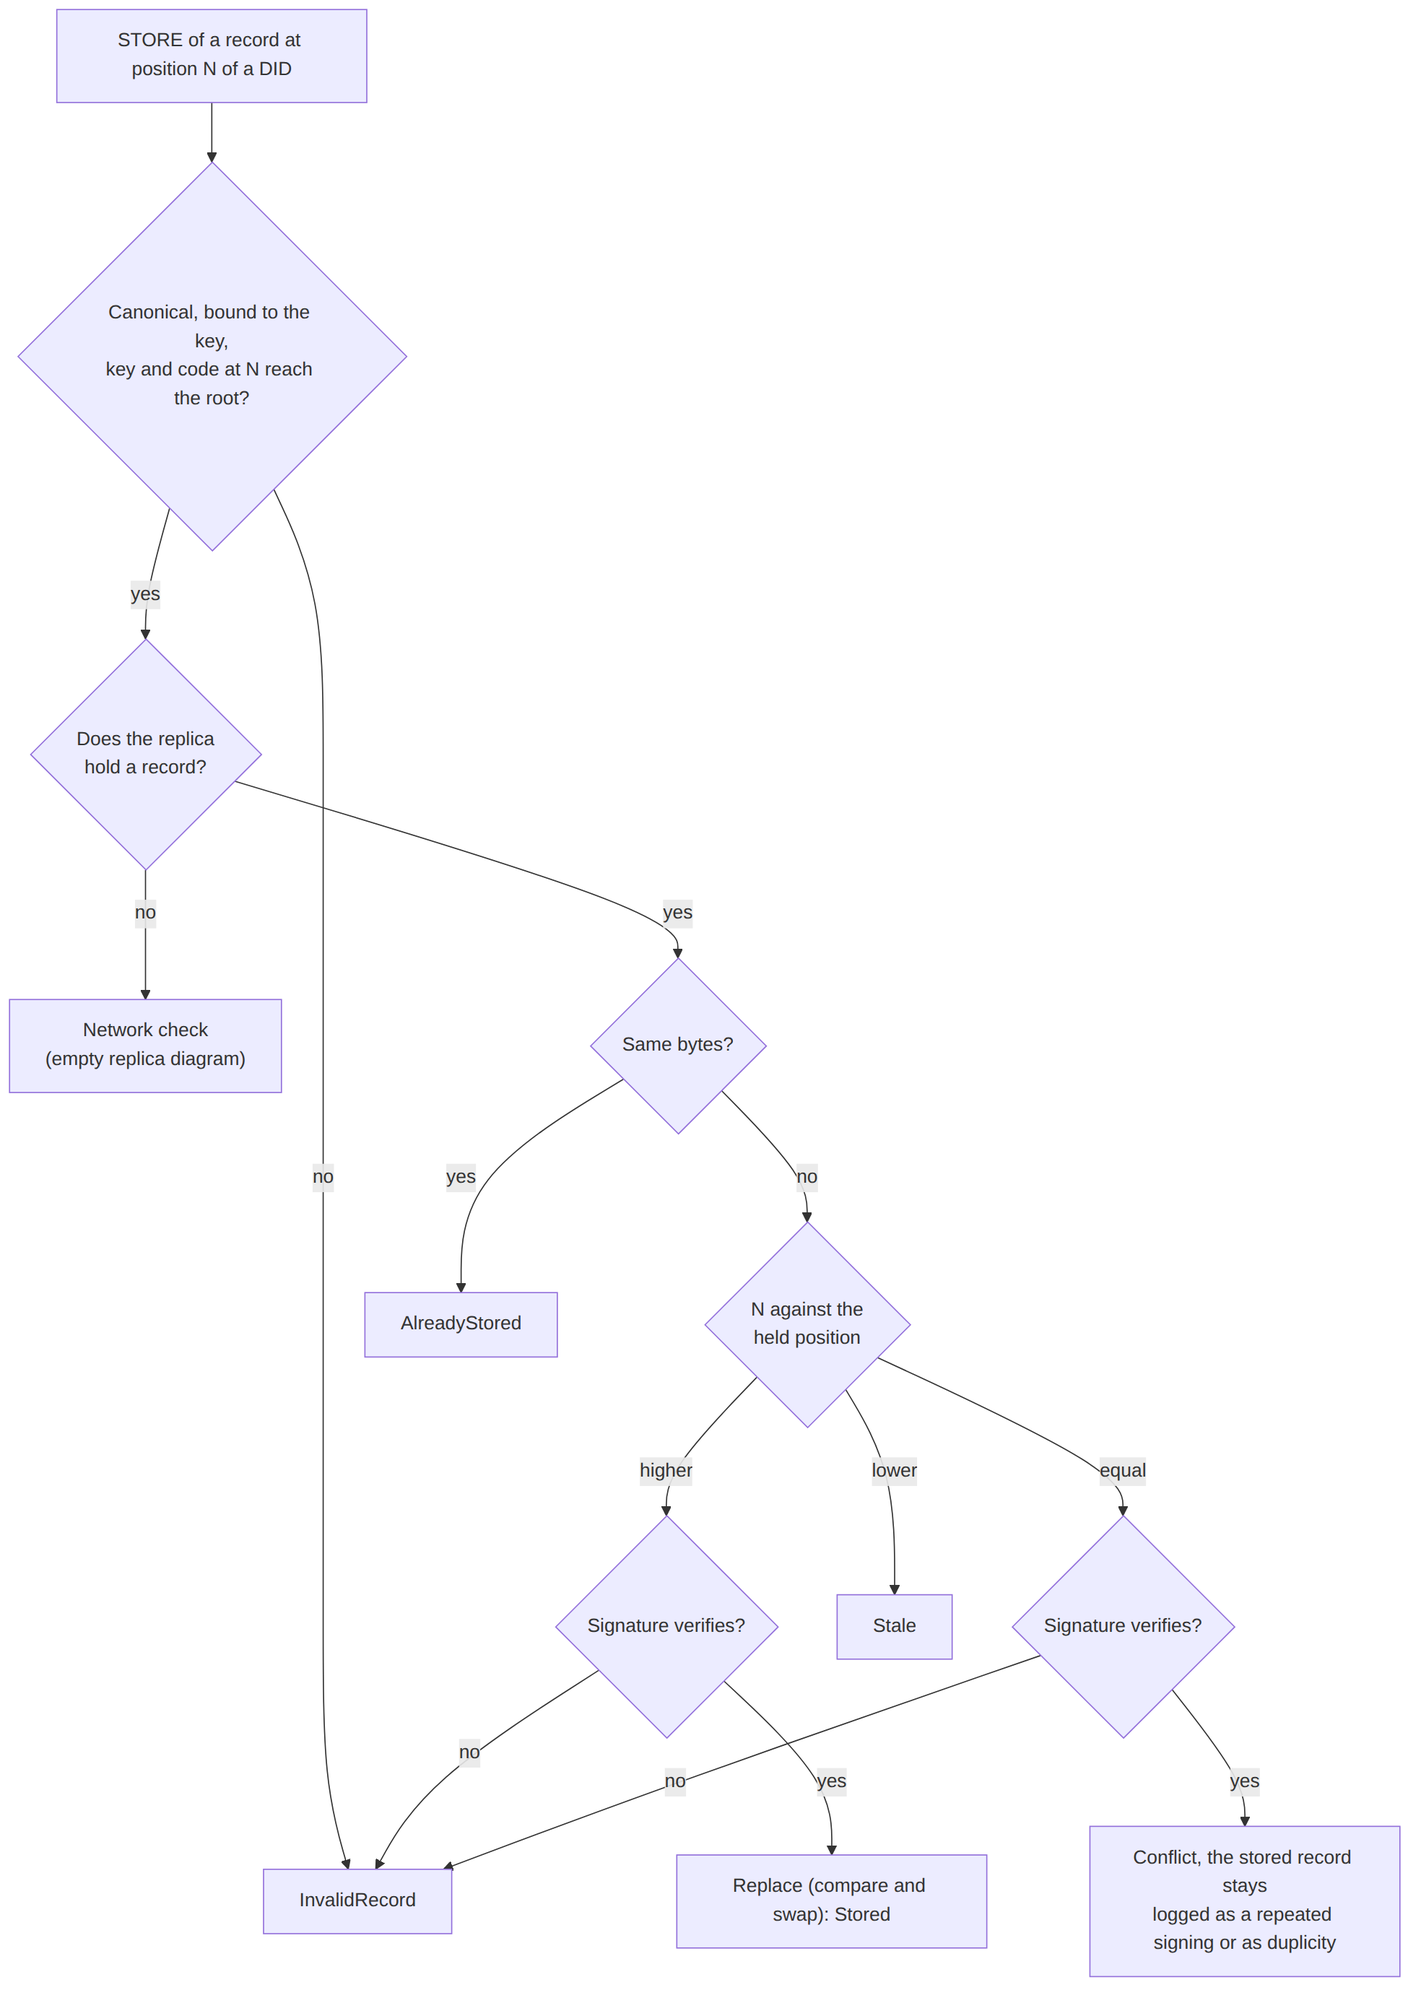
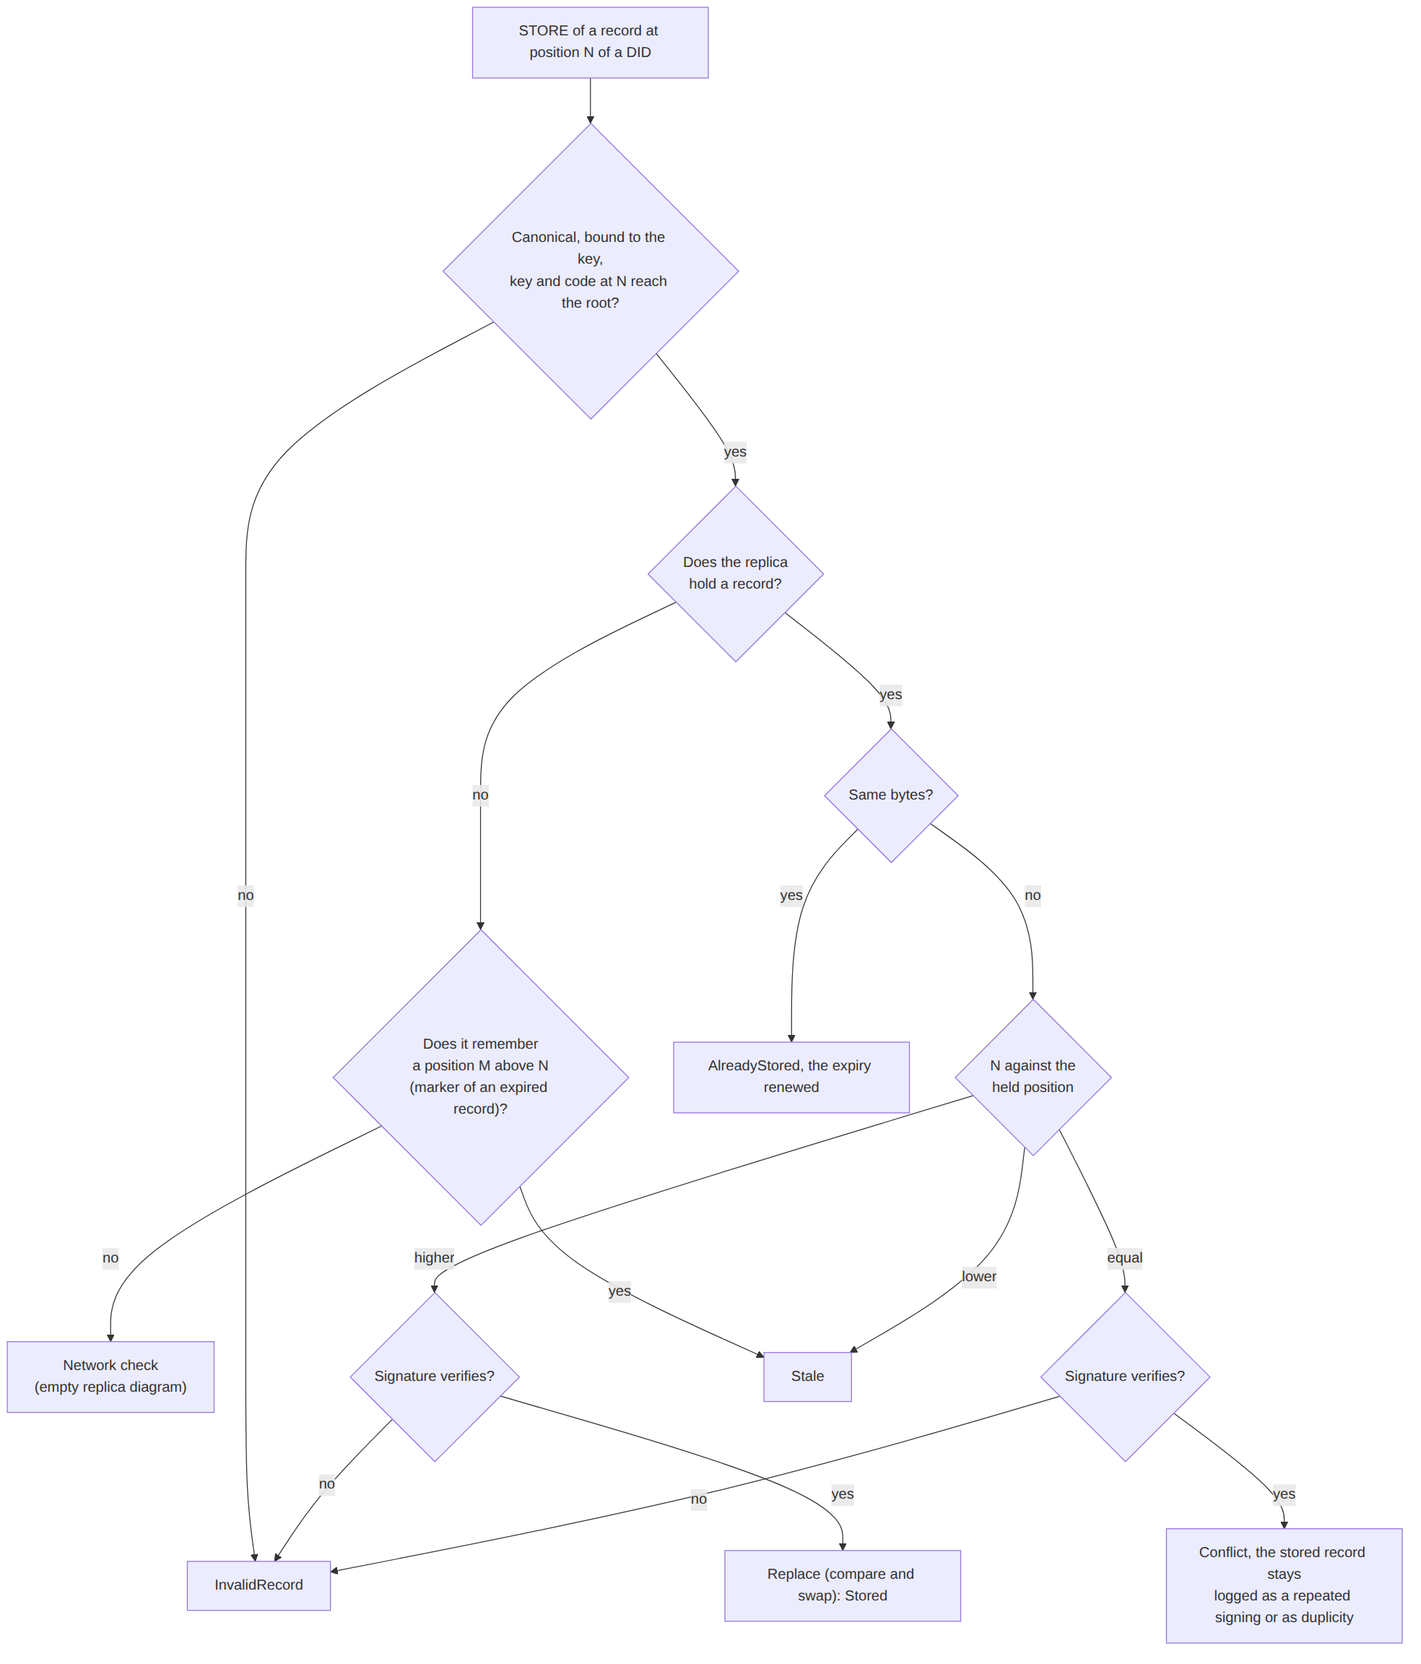
docs: describe persistent storage and the remembered position

diff --git a/AGENTS.md b/AGENTS.md
@@ -21,9 +21,9 @@ Application-layer logic (provisioning, REST APIs, orchestration) remains in Pyth
 ```
 cargo build                          # library + dht_node binary
 cargo build --bin dht_node           # only the Docker entry point
-cargo test                           # all 314 tests
-cargo test --features counters       # 317: also the counters' own tests
-cargo test --features testbed        # 318: also the testbed's FindHash lie switch
+cargo test                           # all 331 tests
+cargo test --features counters       # 334: also the counters' own tests
+cargo test --features testbed        # 335: also the testbed's FindHash lie switch
 cargo test <name>                    # single test, e.g. test_key_rotation_is_published_with_set
 RUST_LOG=debug cargo test -- --nocapture   # verbose output
 ```
@@ -81,6 +81,11 @@ maturin develop --features python
 - `Server(sig_cache=True/False)` controls the ML-DSA signature cache (default
   `False`). Pass `sig_cache=True` to enable it in production for repeated-record
   workloads.
+- `Server(data_dir=None, flush_secs=3600)`: with `data_dir` the node keeps
+  the records it holds in that directory and serves them again after a
+  restart (`ForgetfulStorage::persistent`); renewed expiries reach the disk
+  every `flush_secs`. `RuntimeError` if the directory cannot be created or
+  read. Without it, records live in memory only.
 
 ## Tokio runtime — caller responsibility
 
@@ -128,7 +133,8 @@ default cap of 512 blocking threads, which thrashes the CPU on low-core SoCs.
 | `src/network/maintenance.rs` | Refresh and the hourly republication (through `KademliaProtocol::republish`), recovery tick, stats (`ServerStats`), saved state |
 | `src/crawling.rs` | Iterative lookup — `NodeSpiderCrawl` (find nodes) + `ValueSpiderCrawl` (find value; `search` with a deadline tells `NotFound` from `Incomplete`) |
 | `src/routing.rs` | Kademlia routing table + k-buckets (XOR distance, bucket splits); `KBucket` holds a primary LRU list + `replacement_nodes` overflow (§4.1); `find_neighbors` returns the exact local top-k across known primary contacts, skipping failing ones (see Concurrency model); `touch_last_updated()` is called only for the bucket containing the lookup target — bucket staleness reflects lookup activity, not node additions |
-| `src/storage.rs` | `ForgetfulStorage` — sharded concurrent TTL KV store (`DashMap`); 14-day TTL and configurable byte budget (default 512 MiB), with lazy expiry on read; `insert_if_absent` and `replace_if` (compare and swap under the entry) |
+| `src/storage.rs` | `ForgetfulStorage` — sharded concurrent TTL KV store (`DashMap`); 14-day TTL and configurable byte budget (default 512 MiB), with lazy expiry on read; times in Unix milliseconds; `insert_if_absent` and `replace_if` (compare and swap under the entry); optionally persistent (`persistent`, `flush_renewals`); the marker of an expired DID record (`marker`, `record_or_marker`) |
+| `src/durable.rs` | The files of a persistent store, one per key: a record and its expiry, or a marker; atomic replacement (temporary file, fsync, rename, fsync of the directory) and loading |
 | `src/signature_cache.rs` | `SignatureCache` — moka bounded cache (SHA-256 key, TTL 1 h, 4096 entries) for ML-DSA-65 verification results |
 | `src/fragmentation.rs` | KADF fragmentation + reassembly (`encode_fragments`, `parse_fragment`, `accept_fragment`, `ReassemblyMap`) |
 | `src/retransmit.rs` | When to send a request again: per-peer round-trip estimate (`RoundTrips`, RFC 6298), `MAX_RESENDS`, bounds of the wait |
@@ -221,6 +227,7 @@ All RPCs are serialised with `bincode` and framed with a `(msg_id: u32, is_reque
 
 ## Concurrency model
 - `ForgetfulStorage` is `Arc<ForgetfulStorage>` (no outer `RwLock`). All `IStorage` methods take `&self`; internal synchronization via `DashMap` shards.
+- A persistent store writes a new or changed record to its file, flushed to the device, before memory and before the write returns, under the lock of the entry: a STORE waits for the disk, and memory and disk never disagree between two concurrent writes. Writes are rare (a first copy, a rotation); a renewal of the same bytes changes memory only, and `flush_renewals` and `prune_expired` run on the blocking pool (`schedule_flush`, the stats tick). `Server::stop` flushes the renewals.
 - `rpc_store` uses `insert_if_absent` (DashMap `Entry` API) with atomic global byte reservation. Identical bytes are idempotent; active records are never evicted for capacity. A verified higher position replaces the stored record with `replace_if`, a compare and swap under the entry: if the record changed since the rules read it, the handler decides once more, and after a second change it sends no answer.
 - A STORE for a key the node does not hold waits for a lookup (see Key invariants), whose answers arrive through the receive workers. `handle_datagram` therefore runs it in its own task (`spawn_task`) instead of on the worker, and answers when it is done; at most `MAX_STORE_LOOKUPS` (256) wait at once, beyond that the STORE is dropped. Handled on the worker, 8 such STOREs at once left the lookups without their answers.
 - **Message ids** (ADR 0005, open point 25): each request draws its msg_id at random (`rand`), never one a pending request holds (`fresh_id`, under the lock of the pending map); an answer counts only if its id is pending for the address it comes from. An attacker who does not read the traffic cannot guess one; one who reads it still sees every id.
@@ -309,6 +316,21 @@ All RPCs are serialised with `bincode` and framed with a `(msg_id: u32, is_reque
   the testbed's `push` both run it.
 - The Status List GET keeps a quorum derived from `alpha`, not independently
   configurable: with `alpha = 3`, two byte-identical record responses, or `None`.
+- **Persistence** (ADR 0006, points 5 and 6): with a data directory a
+  replica's records survive a power cut. A write that cannot be made durable
+  changes nothing (`WriteFailed`), and the STORE gets no answer, so the
+  sender counts the replica as unavailable. Renewals of the same bytes reach
+  the disk with the next flush (`DEFAULT_FLUSH_INTERVAL`, one hour): a power
+  cut loses at most one interval of TTL, never a record. Expiries are wall
+  clock times, so a record keeps the rest of its TTL across a restart; never
+  restart a TTL from boot time.
+- **Marker**: once a DID record expires, its position is remembered for one
+  more TTL from its expiry, in memory and in its file, charged to the
+  budget. While it lives, a lower position is `Stale` without asking anyone
+  (`Held::Marker` in `decide_locally`), a GET returns nothing below it, and
+  a repair below it finds nothing; that position or a higher one goes
+  through the network check, and a record written over the marker replaces
+  it. Only a stored, verified record sets it; nothing extends it.
 - An empty replica checks the network before a STORE (`rpc_store`,
   `network_check`), for every DID record (`store_needs_lookup`): the Status List
   is exempt. It asks the nodes closest to the key for the `seq` and SHA-256 of
@@ -382,6 +404,7 @@ All RPCs are serialised with `bincode` and framed with a `(msg_id: u32, is_reque
 | `tests/crypto_tests.rs` | 19 | Crypto layer unit + DID handler unit tests |
 | `tests/routing_tests.rs` | 22 | Routing table unit tests |
 | `tests/storage_tests.rs` | 20 | `ForgetfulStorage` unit tests (includes `insert_if_absent` and `replace_if` cases) |
+| `tests/persistence_tests.rs` | 2 | A persistent replica over real UDP: its record served after a power cut with no peer; no answer when its disk refuses a write |
 | `tests/dht_integration.rs` | 1 | Legacy 3-node end-to-end scenario |
 | `tests/scenarios/replication.rs` | 1 | replication to a joining node (3-node join) |
 | `tests/scenarios/cache.rs` | 2 | SignatureCache hit-rate + false caching |
@@ -391,7 +414,7 @@ All RPCs are serialised with `bincode` and framed with a `(msg_id: u32, is_reque
 | `tests/quorum_tests.rs` | 16 | Real-UDP DID GET without a vote, multi-hop lookup, local fast-path, Status List quorum and update, retry of a publication, a rotation that fills empty replicas, and the network check of a STORE to an empty replica |
 | `tests/repair_tests.rs` | 3 | Repair over real UDP: the expected record found, stored and served locally; no match without it; no answer |
 | `tests/chain_tests.rs` | 8 | Positions of one DID over real UDP: a rotation that reaches every replica, the owner restoring empty replicas, refusals of `set` that count only once shown, forged and old genuine records at empty replicas |
-| `src/**` (inline) | 199 | Module-level `#[test]` blocks (incl. Kademlia convergence, strict-quorum selection, XOR-metric regression, the 256-bit key space, fragmentation, the DID suffix and canonical JSON, the Merkle tree and genesis with a Python test vector, the owner's tree, the STORE rules, the holder's repair after `Stale`, the write of a repair, random message ids, and the protocol tests of `acceptance_tests.rs`); with `--features counters` 3 more, with `--features testbed` 1 more (the `FindHash` lie switch) |
+| `src/**` (inline) | 214 | Module-level `#[test]` blocks (incl. persistence and markers in `storage.rs` and `durable.rs`, Kademlia convergence, strict-quorum selection, XOR-metric regression, the 256-bit key space, fragmentation, the DID suffix and canonical JSON, the Merkle tree and genesis with a Python test vector, the owner's tree, the STORE rules, the holder's repair after `Stale`, the write of a repair, random message ids, and the protocol tests of `acceptance_tests.rs`); with `--features counters` 3 more, with `--features testbed` 1 more (the `FindHash` lie switch) |
 
 All tests are network-clean (loopback only) and run in parallel without interference when port ranges are respected.
 
@@ -430,8 +453,10 @@ All tests are network-clean (loopback only) and run in parallel without interfer
 | 15938–15953 | STORE to an empty replica: network check |
 | 15954–15985 | positions of one DID (`tests/chain_tests.rs`) |
 | 16031–16039 | repair of a served record (`tests/repair_tests.rs`) |
+| 16040–16041 | GET below a remembered position (`src/network/read.rs`) |
+| 16042–16045 | persistent replica (`tests/persistence_tests.rs`) |
 
-When adding a new integration test use ports **16040+** and document them here (15900 is reserved below).
+When adding a new integration test use ports **16046+** and document them here (15900 is reserved below).
 
 | 15900 | resilience test: Node A victim (host-exposed UDP, Docker only) |
 
@@ -496,7 +521,8 @@ tmpfs, emptied once no container uses it, so a retriever never reads the DID of
 an earlier run. No key or seed is in `.env` or the compose file (ADR 0005, open
 point 17). Environment variables per container: `NODE_PORT`, `IS_SEED`,
 `BOOTSTRAP_ADDR`, `ROLE` (`publisher`|`retriever`), `RETRIEVE_KEY` (a DID to
-read instead of the file), `RUST_LOG`.
+read instead of the file), `DATA_DIR` (where the node keeps its records across
+restarts; in memory without it), `RUST_LOG`.
 
 Every Dockerfile builds on the Debian release it runs on (`bookworm`): the C
 code of AWS-LC links against the builder's glibc, and a binary built on a newer

diff --git a/DESIGN.md b/DESIGN.md
@@ -339,7 +339,12 @@ decides on its own, with what it holds:
   signing when the document is the same, as duplicity when it differs: only
   the owner, or a thief of that position's key, could have signed it.
 
-![Decision of a replica that receives a record: form and tree, then by what it holds: the network check, AlreadyStored, a verified higher position, Stale or Conflict](docs/design/replica-rules.png)
+A replica whose record expired remembers its position for one more TTL (the
+marker, section 11). A lower position is then `Stale` without asking
+anyone; that position or a higher one goes through the network check below,
+as at a replica that holds nothing.
+
+![Decision of a replica that receives a record: form and tree, then by what it holds or remembers: the network check, AlreadyStored, a verified higher position, Stale or Conflict](docs/design/replica-rules.png)
 
 *Source: [`docs/design/replica-rules.mmd`](docs/design/replica-rules.mmd).*
 
@@ -533,9 +538,25 @@ any list the issuer signed, an older one included.
 
 *Source: [`docs/design/repair.mmd`](docs/design/repair.mmd).*
 
-- **Expiry:** records expire 14 days after they were written. There is no
-  delete. An application that needs a record to stay must publish it again
-  before then.
+- **Expiry:** records expire 14 days after they were written or last
+  renewed. There is no delete. An application that needs a record to stay
+  must publish it again before then. Once a DID record expires, the replica
+  keeps only its key and position, the marker, for 14 more days from that
+  expiry: a replay of a lower position meanwhile is stale even if no node
+  answers its check. Only a stored, verified record sets a marker, and
+  nothing extends it.
+- **Restarts:** a replica given a data directory keeps each record in a file
+  and serves it again after a power cut, with the rest of its TTL, before any
+  other node answers. A new or changed record is on the device before the
+  replica acknowledges it; if the disk refuses the write, nothing changes
+  and the replica does not answer, so the sender counts it as unavailable.
+  A renewal of the same bytes only moves the expiry, so it reaches the disk
+  with the next hourly flush: a power cut loses at most an hour of TTL, which
+  the next renewal gives back. A file is replaced by writing a temporary one,
+  flushing it, renaming it over the old one and flushing the directory, so a
+  power cut leaves the old file or the new one. The marker of an expired
+  record lives in the same file. Without a data directory a replica restarts
+  empty, as before.
 
 ## 12. Concurrency and resource bounds
 
@@ -548,7 +569,12 @@ any list the issuer signed, an older one included.
   at once. Beyond that the STORE is dropped, as an overloaded node drops
   datagrams. Each check fetches at most `k − 1` records.
 - Storage holds at most 512 MiB by default and never evicts a live record to
-  make room: a full node answers `CapacityExceeded`.
+  make room: a full node answers `CapacityExceeded`. A marker costs its key
+  and 16 bytes.
+- With a data directory, a write of a new or changed record waits for the
+  device under the lock of its entry, so that memory and disk never
+  disagree. Such writes are rare, a first copy or a rotation; renewals,
+  expiries and the hourly flush run on the blocking pool.
 - Sending new nodes their records (section 11) scans the whole storage, so one
   scan runs at a time and at most 256 nodes wait for it. The bound is on the
   records, not on the routing table: a node met beyond it is still added. The
@@ -592,6 +618,13 @@ any list the issuer signed, an older one included.
   holder: the DID must be replaced. A lost store ends rotation the same way.
 - **A tree has 63 positions.** Once position 62 is published the DID cannot
   rotate again; moving to a new tree is not defined yet.
+- **Expiries follow the device's clock.** They are wall clock times, so that
+  a record keeps its TTL across a restart: a clock set forward expires
+  records early, one set back keeps them longer.
+- **The data directory is trusted.** Records read from it are verified again
+  before a GET returns them, but a party that can write it can plant a
+  marker that makes the replica refuse a DID's lower positions for its
+  lifetime.
 
 ## 14. How behaviour is measured
 

diff --git a/CHANGELOG.md b/CHANGELOG.md
@@ -46,6 +46,16 @@ application.
 
 ### Added
 
+- Persistent replica storage: `ForgetfulStorage::persistent(dir, ttl,
+  max_storage_bytes)`, `Server(data_dir=..., flush_secs=3600)` in Python and
+  `DATA_DIR` in `dht_node`. A replica keeps each record in a file, written to
+  the device before it acknowledges the record, and serves it again after a
+  restart with the rest of its TTL; renewals are written every hour. A STORE
+  whose record cannot be written gets no answer.
+- The marker of an expired DID record: its position is remembered for one
+  more TTL, also across restarts, so that a replay of a lower position is
+  refused even when no node answers the check, and a GET or a repair returns
+  nothing below it.
 - `Server::repair` and the Python `Server.repair(did, failed_record, seq,
   key_hash)`: when a served record fails the application's check, the node
   fetches the record at the position and with the key the credential names,
@@ -82,6 +92,11 @@ application.
 
 ### Changed
 
+- Record expiries are wall clock times (milliseconds since the Unix epoch)
+  instead of the process's monotonic clock, so that a record keeps its TTL
+  across a restart. `StorageWriteStatus` and `ReplaceStatus` add
+  `WriteFailed`; `rules::decide_locally` takes what the replica holds as a
+  `Held` (a record, a marker, or nothing).
 - A replica keeps one record per DID and replaces it with any verified
   higher position. A lower position is refused as `Stale`, and another
   record at the same position as `Conflict`, logged as duplicity or as a

diff --git a/docs/integration.md b/docs/integration.md
@@ -48,6 +48,12 @@ async def start(port: int, seeds: list[tuple[str, int]]) -> authkademlia_py.Serv
   and the Status List quorum derive from them.
 - `sig_cache=True` keeps the results of signature verifications for an hour;
   it pays off when the same records are read repeatedly.
+- `data_dir="/var/lib/dht"` keeps the records the node holds on disk, so that
+  after a power cut it serves them again, with the rest of their TTL, before
+  any other node answers. A new record is on disk before the node
+  acknowledges it; renewed expiries are written every `flush_secs` (3600 by
+  default). Without `data_dir` a restarted node is empty until other nodes
+  send it its records. On a device, prefer a persistent directory.
 - `issuer_path` is needed only on nodes that verify the Status List
   ([section 10](#10-the-status-list)).
 - Signature verification releases the GIL and runs on every core.

diff --git a/README.md b/README.md
@@ -68,7 +68,8 @@ and exposes Python bindings for application logic.
   receipts, round-trip-based retransmission and random message identifiers.
 
 **Runtime**
-- Concurrent sharded storage with a time-to-live and a byte budget.
+- Concurrent sharded storage with a time-to-live and a byte budget, kept on
+  disk across restarts when given a data directory.
 - A cache of signature verifications and verification pools sized to the CPU.
 - Python bindings (PyO3) that release the GIL during verification.
 
